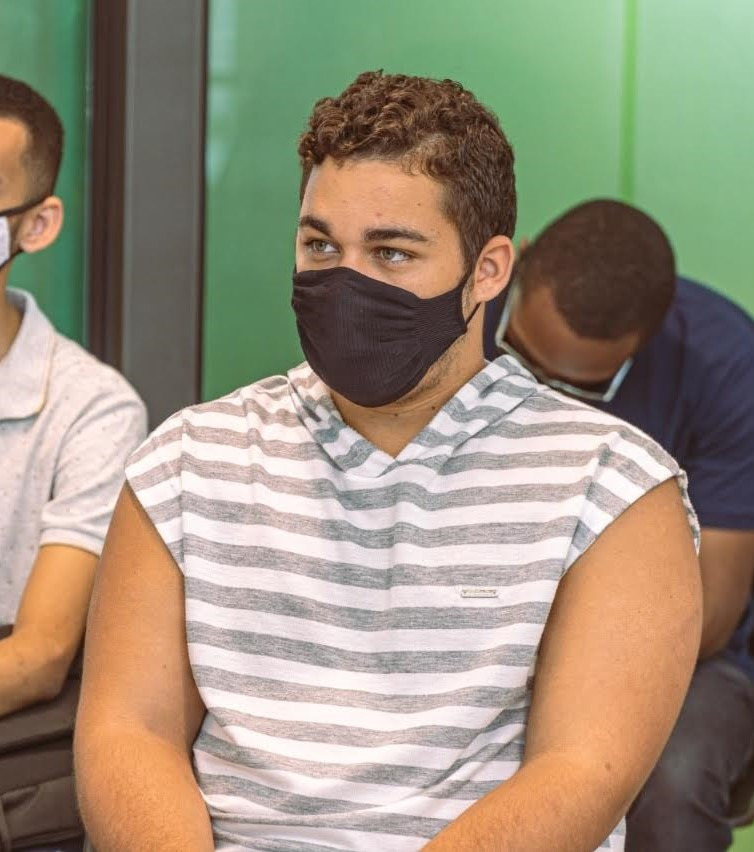
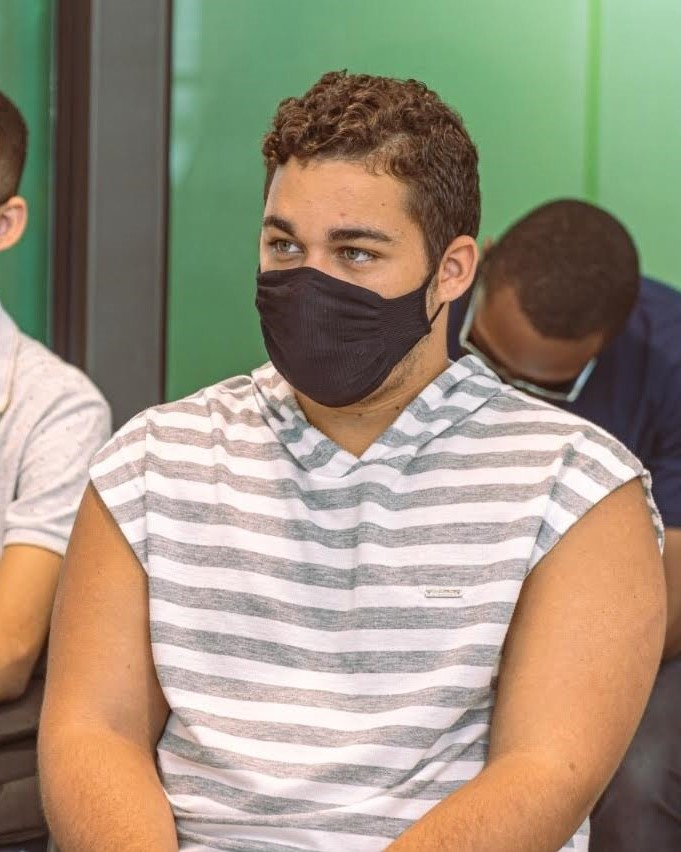
Changes to be committed: 	modified:   Rasb-Tech/assets/css/style.css 	new file:   Rasb-Tech/assets/img/team/team-ll.jpg 	modified:   Rasb-Tech/assets/img/team/team-rb.jpg 	modified:   Rasb-Tech/assets/img/team/team-rs.jpg 	modified:   Rasb-Tech/index.html

diff --git a/Rasb-Tech/index.html b/Rasb-Tech/index.html
@@ -235,7 +235,7 @@
                   <h4>Desenvolvimento de Software Personalizado</h4>
                   <p>Desenvolvemos soluções de software personalizadas para automatizar processos, aumentar a eficiência
                     operacional e impulsionar a produtividade das empresas.
-                    
+
                   </p>
                 </a>
               </li>
@@ -247,22 +247,34 @@
                 <figure>
                   <img src="assets/img/featured-1.png" alt="" class="img-fluid">
                 </figure>
+                <a href="apps-web-e-moveis.html">
+                  <i class="bx bx-rocket"></i>
+                  <p>Veja Mais...</p>
+                </a>
               </div>
               <div class="tab-pane" id="tab-2">
                 <figure>
                   <img src="assets/img/featured-2.png" alt="" class="img-fluid">
                 </figure>
+                <a href="e-commerce.html"><i class="bx bx-rocket"></i>
+                  <p>Veja Mais...</p>
+                </a>
               </div>
               <div class="tab-pane" id="tab-3">
                 <figure>
                   <img src="assets/img/featured-3.png" alt="" class="img-fluid">
                 </figure>
+                <a href="consultoria.html"><i class="bx bx-rocket"></i>
+                  <p>Veja Mais...</p>
+                </a>
               </div>
               <div class="tab-pane" id="tab-4">
                 <figure>
                   <img src="assets/img/featured-4.png" alt="" class="img-fluid">
                 </figure>
-                <a href="personalizado.html"><i class="bx bx-rocket-outline"></i><p>Veja Mais...</p></a>
+                <a href="personalizado.html"><i class="bx bx-rocket"></i>
+                  <p>Veja Mais...</p>
+                </a>
               </div>
             </div>
           </div>
@@ -305,7 +317,7 @@
           <div class="col-lg-4 col-md-6 d-flex align-items-stretch">
             <div class="member" data-aos="zoom-in" data-aos-delay="100">
               <div class="member-img">
-                <img src="assets/img/team/team-1.jpg" class="img-fluid" alt="">
+                <img src="assets/img/team/team-ll.jpg" class="img-fluid" alt="">
                 <div class="social">
                   <a href=""><i class="bi bi-twitter"></i></a>
                   <a href=""><i class="bi bi-facebook"></i></a>
@@ -315,7 +327,7 @@
               </div>
               <div class="member-info">
                 <h4>Liz Lane</h4>
-                <span>Chief Sales Officer</span>
+                <span>Requirements Analysis Leader</span>
                 <p>Animi est delectus alias quam repellendus nihil nobis dolor. Est sapiente occaecati et dolore. Omnis
                   aut ut nesciunt explicabo qui. Eius nam deleniti ut omnis</p>
               </div>
@@ -330,14 +342,16 @@
                   <a href=""><i class="bi bi-twitter"></i></a>
                   <a href=""><i class="bi bi-facebook"></i></a>
                   <a href="https://www.instagram.com/rodrigo_scalda/"><i class="bi bi-instagram"></i></a>
-                  <a href="https://www.linkedin.com/in/rodrigo-scaldaferri-7531591b5/"><i class="bi bi-linkedin"></i></a>
+                  <a href="https://www.linkedin.com/in/rodrigo-scaldaferri-7531591b5/"><i
+                      class="bi bi-linkedin"></i></a>
                 </div>
               </div>
               <div class="member-info">
                 <h4>Rodrigo Scaldaferri</h4>
                 <span>Chief Executive Officer</span>
-                <p>Aspernatur iste esse aliquam enim et corporis. Molestiae voluptatem aut eligendi quis aut. Libero vel
-                  amet voluptatem eos rerum non doloremque</p>
+                <p>Apaixonado por tecnologia e sempre buscando aprimorar meus conhecimentos. Tenho experiência no
+                  desenvolvimento de sistemas, gerenciamento de projetos, cibersegurança e conformidade com
+                  regulamentações.</p>
               </div>
             </div>
           </div>
@@ -356,8 +370,8 @@
               <div class="member-info">
                 <h4>João Rodrigues</h4>
                 <span>Chief Operating Officer</span>
-                <p>Ut enim possimus nihil cupiditate beatae. Veniam facere quae non qui necessitatibus rerum eos vero.
-                  Maxime sit sunt quo dolor autem est qui quaerat</p>
+                <p>Tenho sede de conhecimento e sempre busco aprimorar minhas habilidades. Sou aficionado da tecnologia e
+                  acredito que com ela ao nosso favor podemos fazer coisas incríveis.</p>
               </div>
             </div>
           </div>

diff --git a/Rasb-Tech/assets/css/style.css b/Rasb-Tech/assets/css/style.css
@@ -8,13 +8,14 @@
 /*--------------------------------------------------------------
 # General
 --------------------------------------------------------------*/
-:root{
-  --cor-primaria:#112B3C;
-  --cor-secundaria:#205375;
-  --cor-tercearia:#4e3dff;
-  --cor-hover:#9d98ed;
-  --cor-tercearia-invert:#EFEFEF;
+:root {
+  --cor-primaria: #112B3C;
+  --cor-secundaria: #205375;
+  --cor-tercearia: #4e3dff;
+  --cor-hover: #9d98ed;
+  --cor-tercearia-invert: #EFEFEF;
 }
+
 body {
   font-family: "Open Sans", sans-serif;
   color: var(--cor-primaria);
@@ -573,6 +574,7 @@ section {
   -webkit-animation: slide-down 0.5s ease-out;
   animation: slide-down 0.5s ease-out;
 }
+
 
 @-webkit-keyframes slide-down {
   0% {
